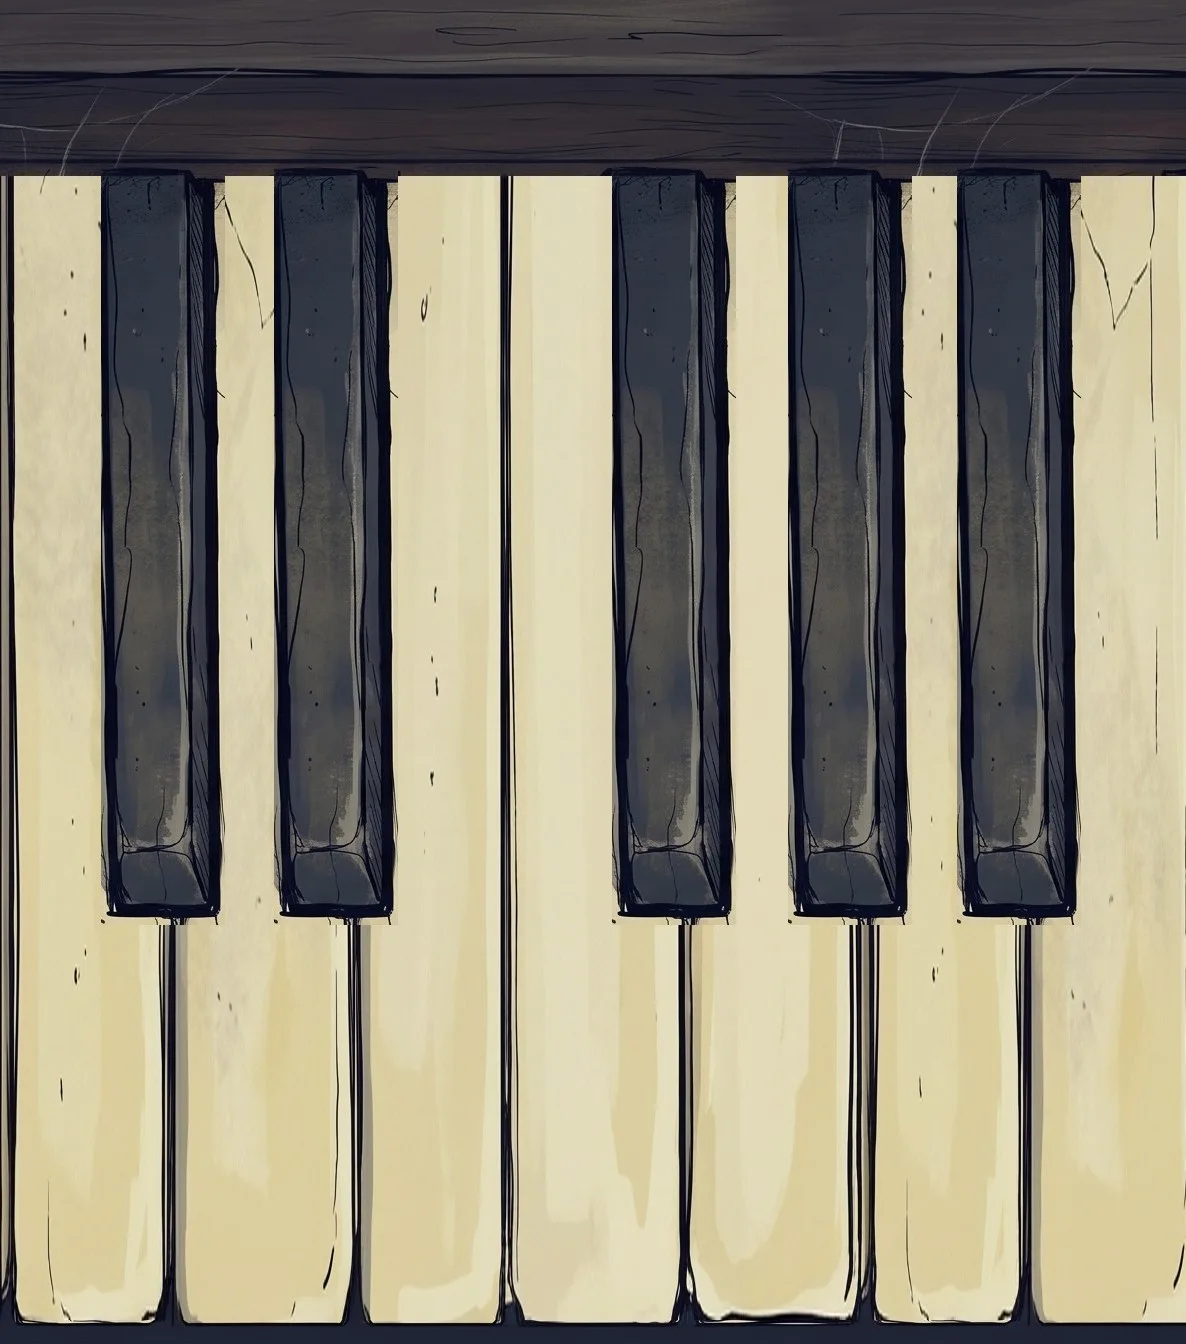
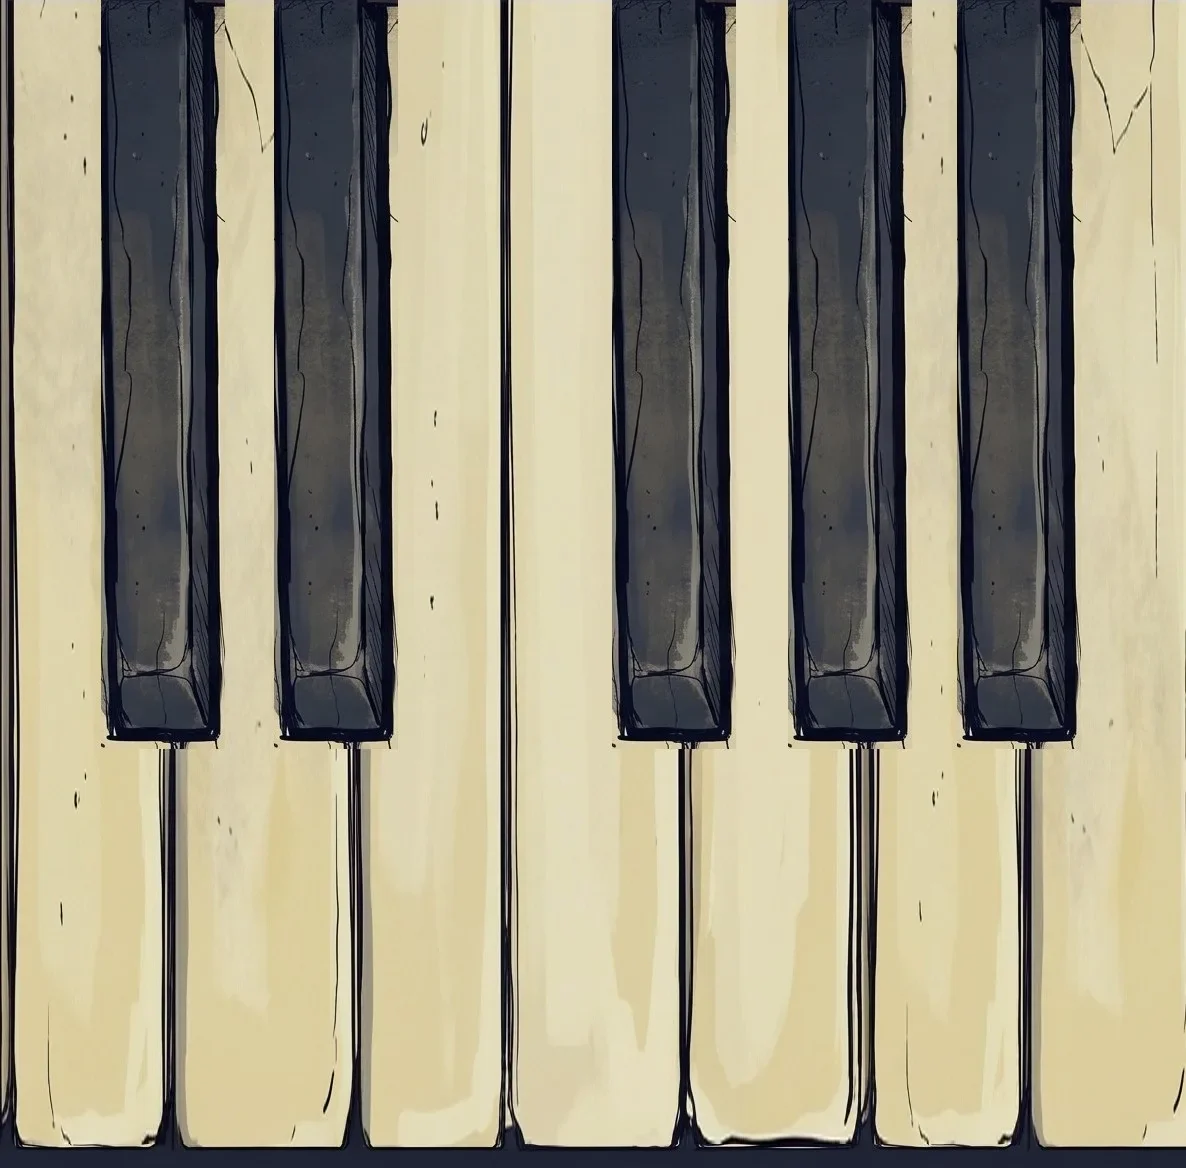
Låt pianots tangenter vara lika breda som ouijabrädet
Bilden av oktaven är beskuren till tangenterna, utan det bruna träet
ovanför. Fönstret fyller ytans bredd, och räcker inte höjden göms
tangenternas övre del, som under pianots lock (Jonas 2026-11-24).

Claude-Session: https://claude.ai/code/session_01X82C49RzHwA17CDKtjABRW

diff --git a/src/tasks/PianoTask.tsx b/src/tasks/PianoTask.tsx
@@ -50,6 +50,8 @@ function toPercent(pixels: number, width: number): string {
  * intilliggande vita tangenter och de svarta däremellan och i kanterna
  * (Jonas 2026-11-18). Pianot är en tecknad bild av en oktav, och knapparna
  * ligger osynliga ovanpå tangenterna i bilden (Jonas 2026-11-23).
+ * Tangenterna är lika breda som ouijabrädet. Räcker inte höjden göms
+ * tangenternas övre del, som under pianots lock (Jonas 2026-11-24).
  * En vit tangent låter i den egna mobilen och skickas till servern, som avgör
  * om de senaste tonerna är melodin. De svarta finns inte i melodin, så de
  * låter bara i mobilen. Inget säger till om en fel ton (Jonas 2026-11-18).
@@ -86,25 +88,27 @@ export function PianoKeys({ keys, onPlayKey }: { keys: readonly PianoKey[]; onPl
   return (
     <section className="piano-keys" aria-label="Dina tangenter">
       <div className="piano-window" style={{ '--keys-ratio': width / OCTAVE_IMAGE.height } as CSSProperties}>
-        <div className="piano-octaves" aria-hidden="true" style={{ left: toPercent(layout.imageLeft, width), width: toPercent(2 * OCTAVE_IMAGE.width, width) }} />
-        {layout.whiteKeys.map(({ note, left, width: keyWidth }) => (
-          <button key={note} type="button" className="piano-key" style={{ left: toPercent(left, width), width: toPercent(keyWidth, width) }} onPointerDown={(event) => strike(event, note, true)} onPointerUp={release} onPointerCancel={forget} onKeyDown={(event) => strike(event, note, true)}>
-            {names.get(note)}
-          </button>
-        ))}
-        {layout.blackKeys.map(({ note, left, width: keyWidth }) => (
-          <button
-            key={note}
-            type="button"
-            className="piano-key piano-key-black"
-            aria-label="Svart tangent"
-            style={{ left: toPercent(left, width), width: toPercent(keyWidth, width) }}
-            onPointerDown={(event) => strike(event, note, false)}
-            onPointerUp={release}
-            onPointerCancel={forget}
-            onKeyDown={(event) => strike(event, note, false)}
-          />
-        ))}
+        <div className="piano-keyboard">
+          <div className="piano-octaves" aria-hidden="true" style={{ left: toPercent(layout.imageLeft, width), width: toPercent(2 * OCTAVE_IMAGE.width, width) }} />
+          {layout.whiteKeys.map(({ note, left, width: keyWidth }) => (
+            <button key={note} type="button" className="piano-key" style={{ left: toPercent(left, width), width: toPercent(keyWidth, width) }} onPointerDown={(event) => strike(event, note, true)} onPointerUp={release} onPointerCancel={forget} onKeyDown={(event) => strike(event, note, true)}>
+              {names.get(note)}
+            </button>
+          ))}
+          {layout.blackKeys.map(({ note, left, width: keyWidth }) => (
+            <button
+              key={note}
+              type="button"
+              className="piano-key piano-key-black"
+              aria-label="Svart tangent"
+              style={{ left: toPercent(left, width), width: toPercent(keyWidth, width) }}
+              onPointerDown={(event) => strike(event, note, false)}
+              onPointerUp={release}
+              onPointerCancel={forget}
+              onKeyDown={(event) => strike(event, note, false)}
+            />
+          ))}
+        </div>
       </div>
     </section>
   );

diff --git a/src/tasks/piano.css b/src/tasks/piano.css
@@ -18,15 +18,35 @@
 /*
  * Fönstret mot pianot: en tecknad oktav, C till B, som ligger bredvid sig
  * själv och flyttas en vit tangent per steg. Bara spelarens fyra vita
- * tangenter syns (Jonas 2026-11-23). Fönstret är så stort som får plats.
+ * tangenter syns (Jonas 2026-11-23). Fönstret är lika brett som ytan, som
+ * ouijabrädet. Räcker inte höjden står tangenterna kvar i underkant och
+ * deras övre del göms, som under pianots lock (Jonas 2026-11-24).
  */
 .piano-window {
   position: relative;
   overflow: hidden;
-  width: min(100cqw, 100cqh * var(--keys-ratio));
-  aspect-ratio: var(--keys-ratio);
+  width: 100cqw;
+  height: min(100cqh, 100cqw / var(--keys-ratio));
   border-radius: 0.3rem;
   box-shadow: 0 0.5rem 1.5rem rgb(0 0 0 / 0.5);
+}
+
+/* Skuggan från locket över tangenternas överkant. */
+.piano-window::after {
+  content: '';
+  position: absolute;
+  inset: 0 0 auto;
+  z-index: 2;
+  height: 0.6rem;
+  background: linear-gradient(rgb(0 0 0 / 0.6), transparent);
+  pointer-events: none;
+}
+
+/* Tangenterna i full höjd, räknade från fönstrets underkant. */
+.piano-keyboard {
+  position: absolute;
+  inset: auto 0 0;
+  aspect-ratio: var(--keys-ratio);
 }
 
 .piano-octaves {
@@ -36,10 +56,10 @@
   background: url('./bilder/pianot-oktav.webp') left top / 50% 100% repeat-x;
 }
 
-/* Knapparna är osynliga och ligger på tangenterna i bilden. Tangenterna börjar under träet, 175 av 1344 pixlar. */
+/* Knapparna är osynliga och ligger på tangenterna i bilden, som börjar i bildens överkant. */
 .piano-key {
   position: absolute;
-  top: calc(175 / 1344 * 100%);
+  top: 0;
   bottom: 0;
   display: flex;
   align-items: flex-end;
@@ -60,10 +80,10 @@
 
 .piano-key:active { background: rgb(40 30 15 / 0.16); }
 
-/* De svarta tangenterna går till 915 av 1344 pixlar i bilden. */
+/* De svarta tangenterna går till 739 av 1168 pixlar i bilden. */
 .piano-key-black {
   z-index: 1;
-  bottom: calc((1344 - 915) / 1344 * 100%);
+  bottom: calc((1168 - 739) / 1168 * 100%);
   padding: 0;
   border-radius: 0 0 0.3rem 0.3rem;
 }
@@ -71,5 +91,5 @@
 .piano-key-black:active { background: rgb(0 0 0 / 0.35); }
 
 /* I fullskärm fyller pianot hela ytan mellan klockan och kanten (Jonas 2026-11-18). */
-.piano-screen .thing-stage { justify-content: stretch; }
+.piano-screen .thing-stage { justify-content: stretch; padding-inline: 0.5rem; }
 .piano-screen .piano-keys { flex: 1 1 auto; height: auto; min-height: 0; }

diff --git a/src/tasks/pianoLayout.ts b/src/tasks/pianoLayout.ts
@@ -6,8 +6,12 @@
  * pixlar.
  */
 
-/** Bildens storlek i pixlar. */
-export const OCTAVE_IMAGE = { width: 1186, height: 1344 };
+/**
+ * Bildens storlek i pixlar. Bilden är beskuren till tangenterna, utan det
+ * bruna träet ovanför, så att tangenterna kan fylla skärmens bredd
+ * (Jonas 2026-11-24).
+ */
+export const OCTAVE_IMAGE = { width: 1186, height: 1168 };
 
 /** Skarvarna mellan de vita tangenterna i bilden, från C:s vänsterkant till B:s högerkant. Tangenterna är inte lika breda. */
 // Uppmätta i bilden, en siffra per skarv.
@@ -18,8 +22,6 @@ const WHITE_EDGES = [0, 170, 355, 507, 685, 860, 1025, 1186];
 const BLACK_CENTERS: Record<string, number> = { C: 160, D: 333, F: 670, G: 847, A: 1017 };
 const BLACK_WIDTH = 114;
 
-/** De svarta tangenterna går från tangenternas överkant till så här långt ner i bilden. */
-export const BLACK_KEY_SPAN = { top: 175, bottom: 915 };
 
 const WHITE_LETTERS = 'CDEFGAB';
 

diff --git a/src/config.ts b/src/config.ts
@@ -6,4 +6,4 @@ export const SUPABASE_PUBLIC_KEY = 'sb_publishable_aa--NTfRkU6vqDZUqgXMPw_o2LBJh
 
 // Visas på testsidan och i felsökningsloggen, så att det syns om mobilen kör en
 // gammal sida ur cachen. Höjs vid varje ändring av webbsidan.
-export const VERSION = '2026-11-24.17';
+export const VERSION = '2026-11-24.18';

diff --git a/docs/koncept.md b/docs/koncept.md
@@ -236,4 +236,4 @@ Den femte gästen är ett spökhusuppdrag på cirka 60 minuter med nio uppgifter
 
 **Utseendet.** Temat är levande ljus och gulnat papper: svartbrun bakgrund med ett varmt sken uppifrån, mörkt trä i rutorna och en accent i ljusets gula färg. Rubriker och sakernas namn står i IM Fell English SC, och berättartexter, urklipp, rollkort och ledtrådar i EB Garamond, som är lättare att läsa i längre stycken (Jonas 2026-11-23). Båda typsnitten ligger i repot under SIL Open Font License.
 
-**Sakerna.** Golvuret, gästboken, pianot, ouijabrädet och tidningsurklippen är tecknade bilder från Gemini i samma stil som rundbilderna, utan text och siffror. Spelet skriver siffror, visare, namn och bokstäver ovanpå, och bilden står överst i sakvyn, så stor som får plats (Jonas 2026-11-23). Golvuret har tom urtavla och tomt pendelfönster. Gästbokens sidor är olinjerade, och namnen står i skrivstil, Homemade Apple, med blått bläck. Pianot är en tecknad oktav, C till B, som läggs bredvid sig själv och flyttas en vit tangent per steg, så att varje spelare ser sina fyra tangenter. Urklippen är ett stort urklipp för artikeln, med datumrad, rubrik och anfang, och ett litet för varje notis, med första meningen som rubrik. Texten står i Old Standard TT. Allt man bläddrar i, som gästboken och urklippen, ligger i en hög överst, och bläddringsknapparna ligger längst ner, närmast tummen. När spelaren tittar på sina egna urklipp står Bara du ser det här i statusraden (Jonas 2026-11-23). Typsnitten ligger i repot med sina licenser.
+**Sakerna.** Golvuret, gästboken, pianot, ouijabrädet och tidningsurklippen är tecknade bilder från Gemini i samma stil som rundbilderna, utan text och siffror. Spelet skriver siffror, visare, namn och bokstäver ovanpå, och bilden står överst i sakvyn, så stor som får plats (Jonas 2026-11-23). Golvuret har tom urtavla och tomt pendelfönster. Gästbokens sidor är olinjerade, och namnen står i skrivstil, Homemade Apple, med blått bläck. Pianot är en tecknad oktav, C till B, som läggs bredvid sig själv och flyttas en vit tangent per steg, så att varje spelare ser sina fyra tangenter. Bilden är beskuren till tangenterna, utan träet ovanför, och tangenterna är lika breda som ouijabrädet. Räcker inte höjden göms tangenternas övre del, som under pianots lock (Jonas 2026-11-24). Urklippen är ett stort urklipp för artikeln, med datumrad, rubrik och anfang, och ett litet för varje notis, med första meningen som rubrik. Texten står i Old Standard TT. Allt man bläddrar i, som gästboken och urklippen, ligger i en hög överst, och bläddringsknapparna ligger längst ner, närmast tummen. När spelaren tittar på sina egna urklipp står Bara du ser det här i statusraden (Jonas 2026-11-23). Typsnitten ligger i repot med sina licenser.
